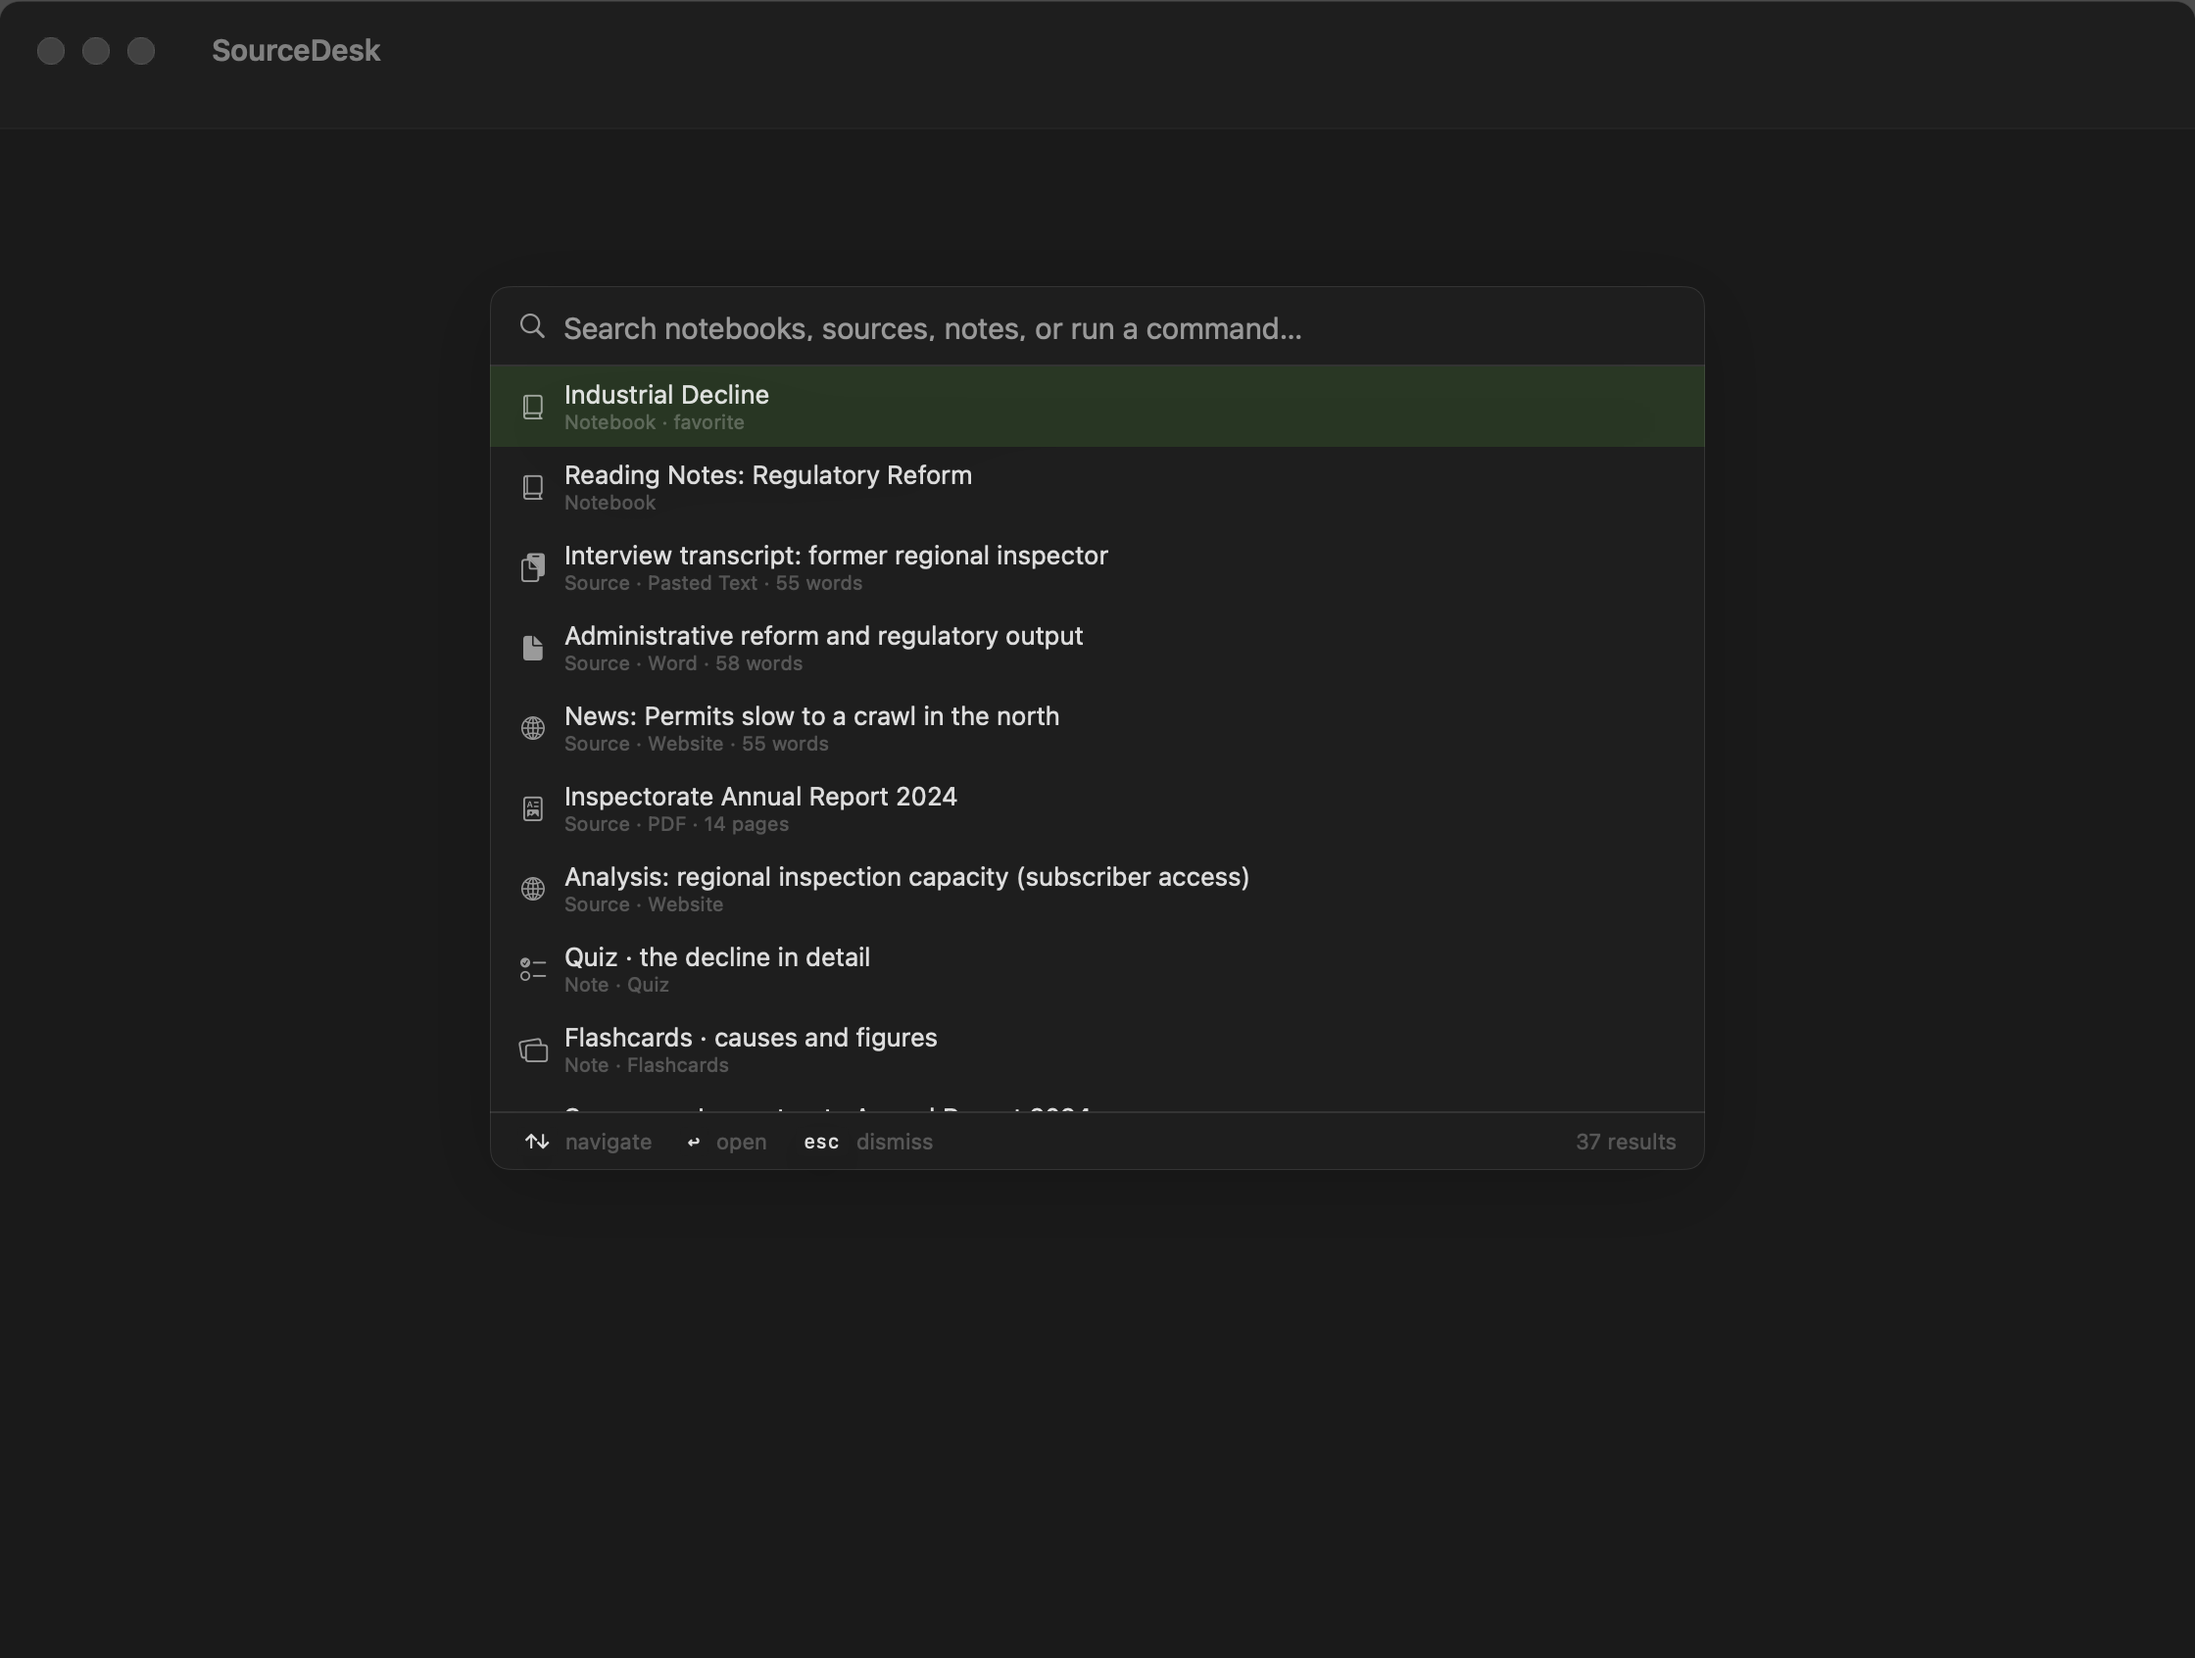
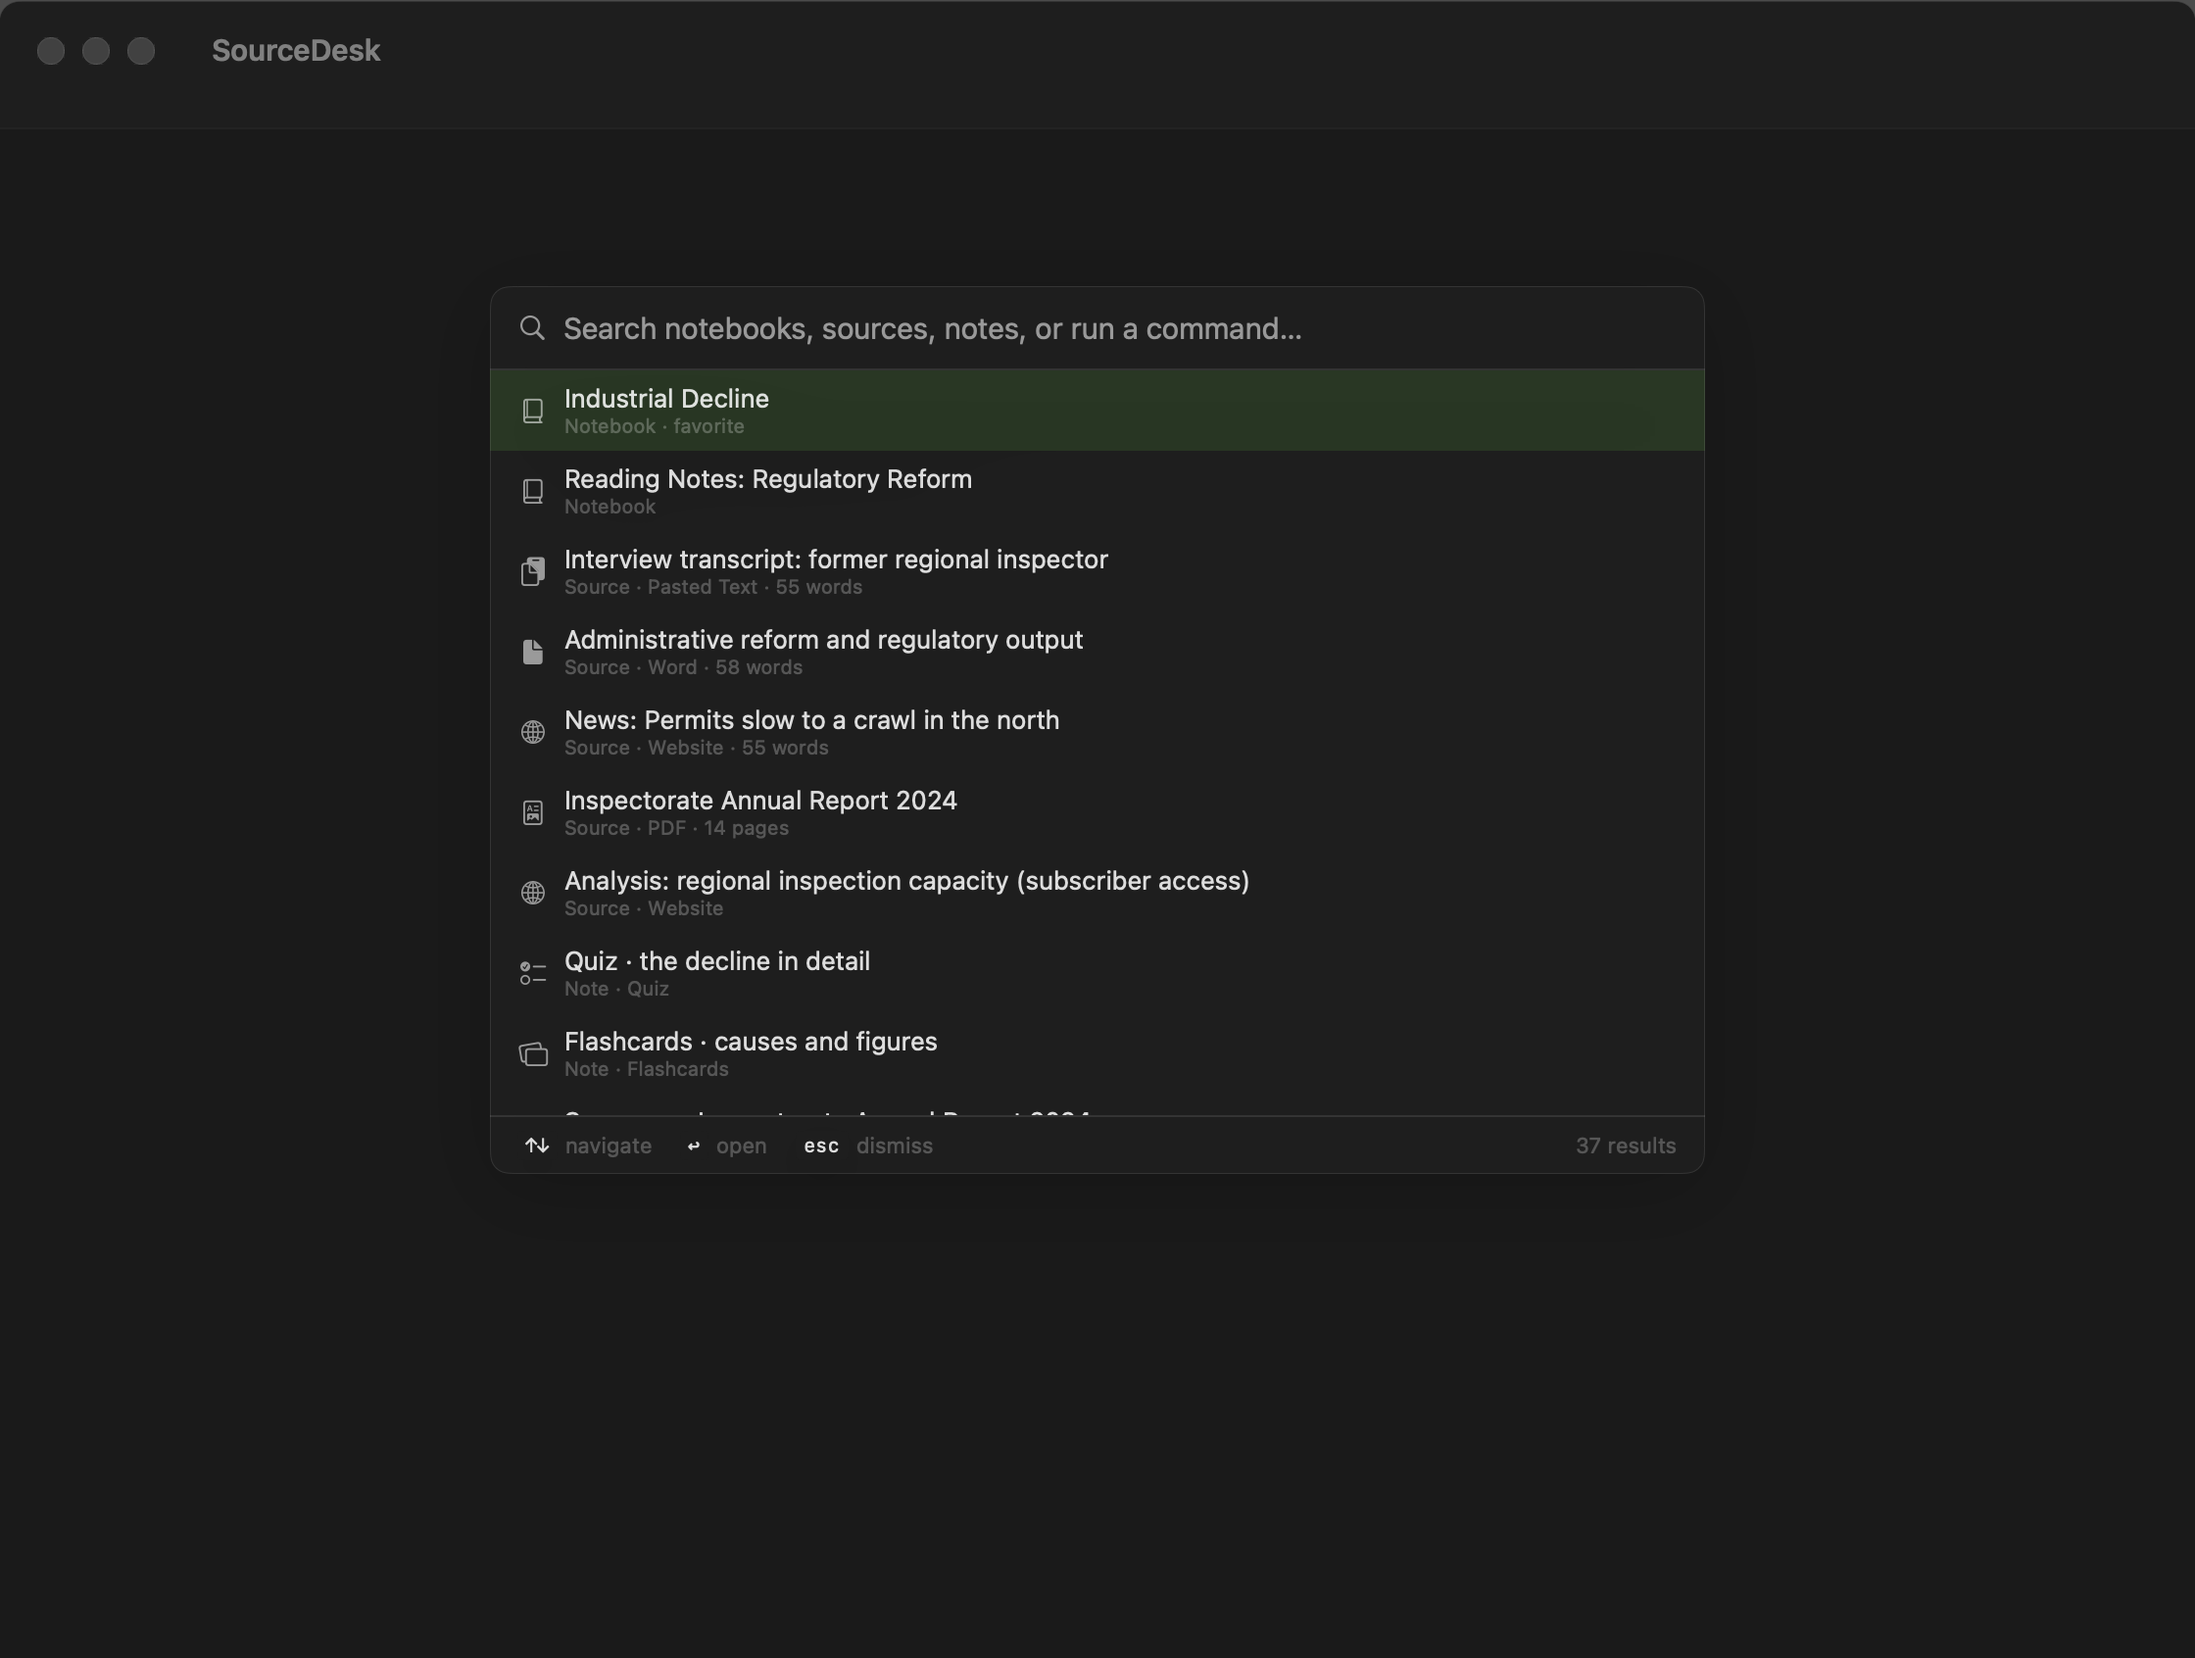
Keep the demo library stable across renders, and finish the stashed localization work
Selecting a notebook in the screenshot renderer rewrote the demo row: the
touch stamped last_opened_at with the wall clock, and the sidebar's accent
bar colour came from the app's own tint rather than the seeded index. Both
made the sidebar capture drift between runs, which the release gate caught.
The renderer now restores the seeded row after selection, so the sidebar
shows the demo library's age and accent rather than the run's.

The stash from the interrupted session is also merged in: the localized
button labels in the inspector and the Keychain refresh ordering, both
resolved to the current code.

diff --git a/Sources/SourceDesk/App/ScreenshotRenderer.swift b/Sources/SourceDesk/App/ScreenshotRenderer.swift
@@ -86,7 +86,27 @@ enum ScreenshotRenderer {
         let search = SearchPanelViewModel(app: app)
 
         if let notebook = app.notebooks.first(where: { $0.isFavorite }) ?? app.notebooks.first {
+            // Selecting a notebook stamps `last_opened_at` with the wall clock and the
+            // upsert path rewrites the accent index, which would make the sidebar's
+            // relative age and accent bar drift between renders. Both are written back
+            // to the seeded value afterwards, so a capture shows the demo library as
+            // seeded rather than as of the moment this process happened to run.
             app.selectNotebook(notebook.id)
+            if let store = app.store {
+                _ = try? store.upsert(notebook: Notebook(
+                    id: notebook.id,
+                    title: notebook.title,
+                    summary: notebook.summary,
+                    createdAt: notebook.createdAt,
+                    updatedAt: notebook.updatedAt,
+                    lastOpenedAt: DemoSeed.demoNow,
+                    isFavorite: notebook.isFavorite,
+                    isArchived: notebook.isArchived,
+                    defaultScope: notebook.defaultScope,
+                    accentIndex: notebook.accentIndex
+                ))
+            }
+            app.reloadNotebooks()
             chat.loadMessages()
             if let source = app.sources.first(where: { $0.title.contains("Inspectorate") }) ?? app.sources.first {
                 app.selectedSourceID = source.id

diff --git a/Sources/SourceDeskCore/NotebookStore.swift b/Sources/SourceDeskCore/NotebookStore.swift
@@ -110,13 +110,17 @@ public final class NotebookStore: @unchecked Sendable {
         }
     }
 
-    public func touchNotebook(id: RecordID, opened: Bool = false) throws {
-        let now = Date()
+    public func touchNotebook(id: RecordID, opened: Bool = false, at now: Date? = nil) throws {
+        // `now` exists for the screenshot renderer: it must be able to write back the
+        // demo library's seeded timestamp after selecting a notebook, because a real
+        // `Date()` there would make the sidebar's relative age drift between renders.
+        // Nil in normal use, which keeps the live app stamping the real clock.
+        let timestamp = now ?? Date()
         if opened {
             try db.execute("UPDATE notebooks SET updated_at = ?, last_opened_at = ? WHERE id = ?;",
-                           [.date(now), .date(now), .text(id)])
+                           [.date(timestamp), .date(timestamp), .text(id)])
         } else {
-            try db.execute("UPDATE notebooks SET updated_at = ? WHERE id = ?;", [.date(now), .text(id)])
+            try db.execute("UPDATE notebooks SET updated_at = ? WHERE id = ?;", [.date(timestamp), .text(id)])
         }
     }
 
